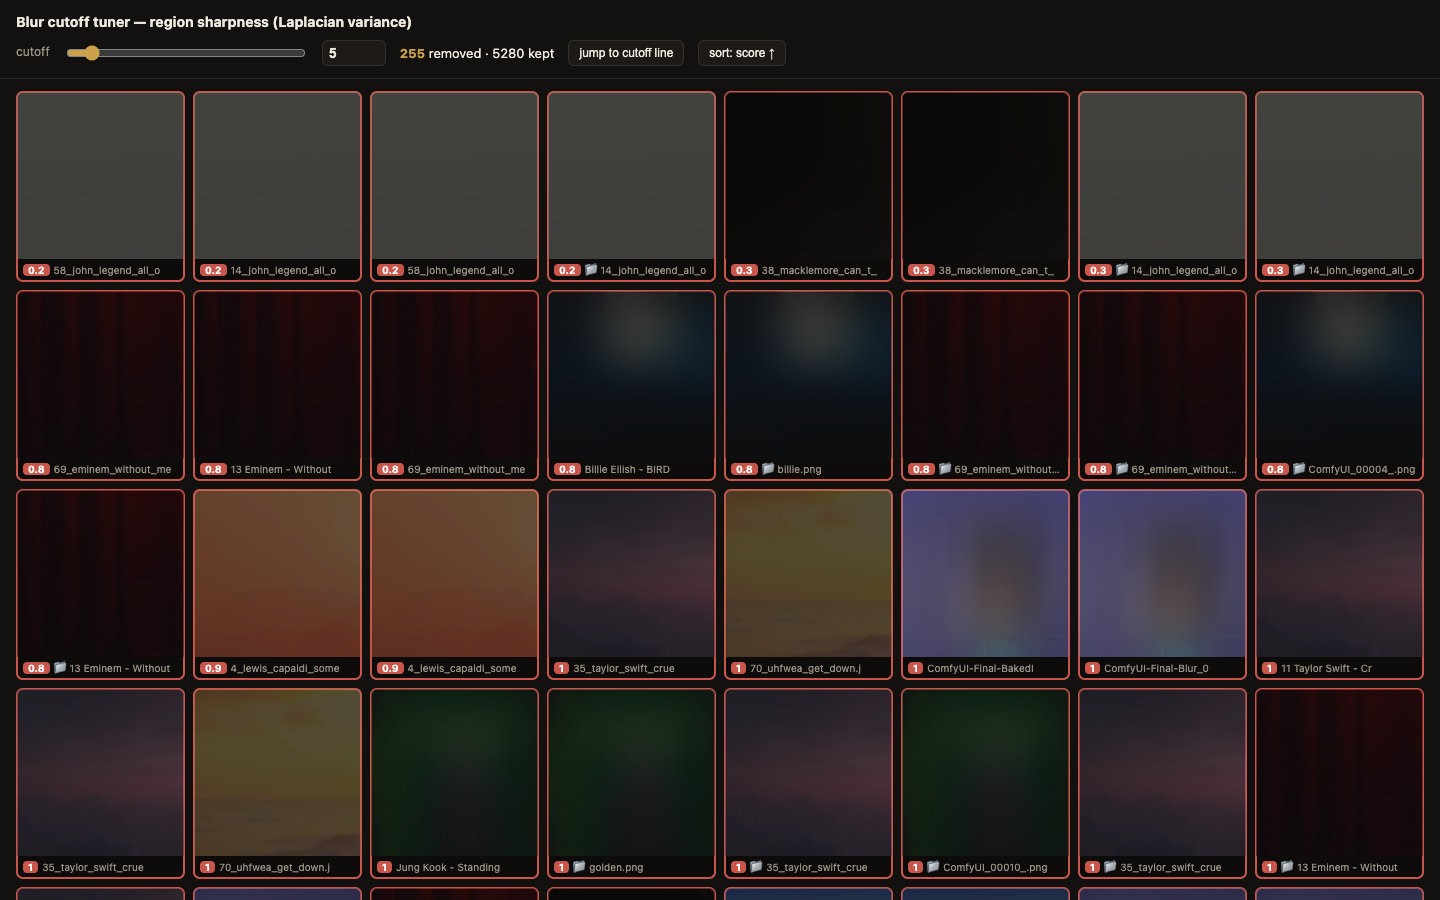
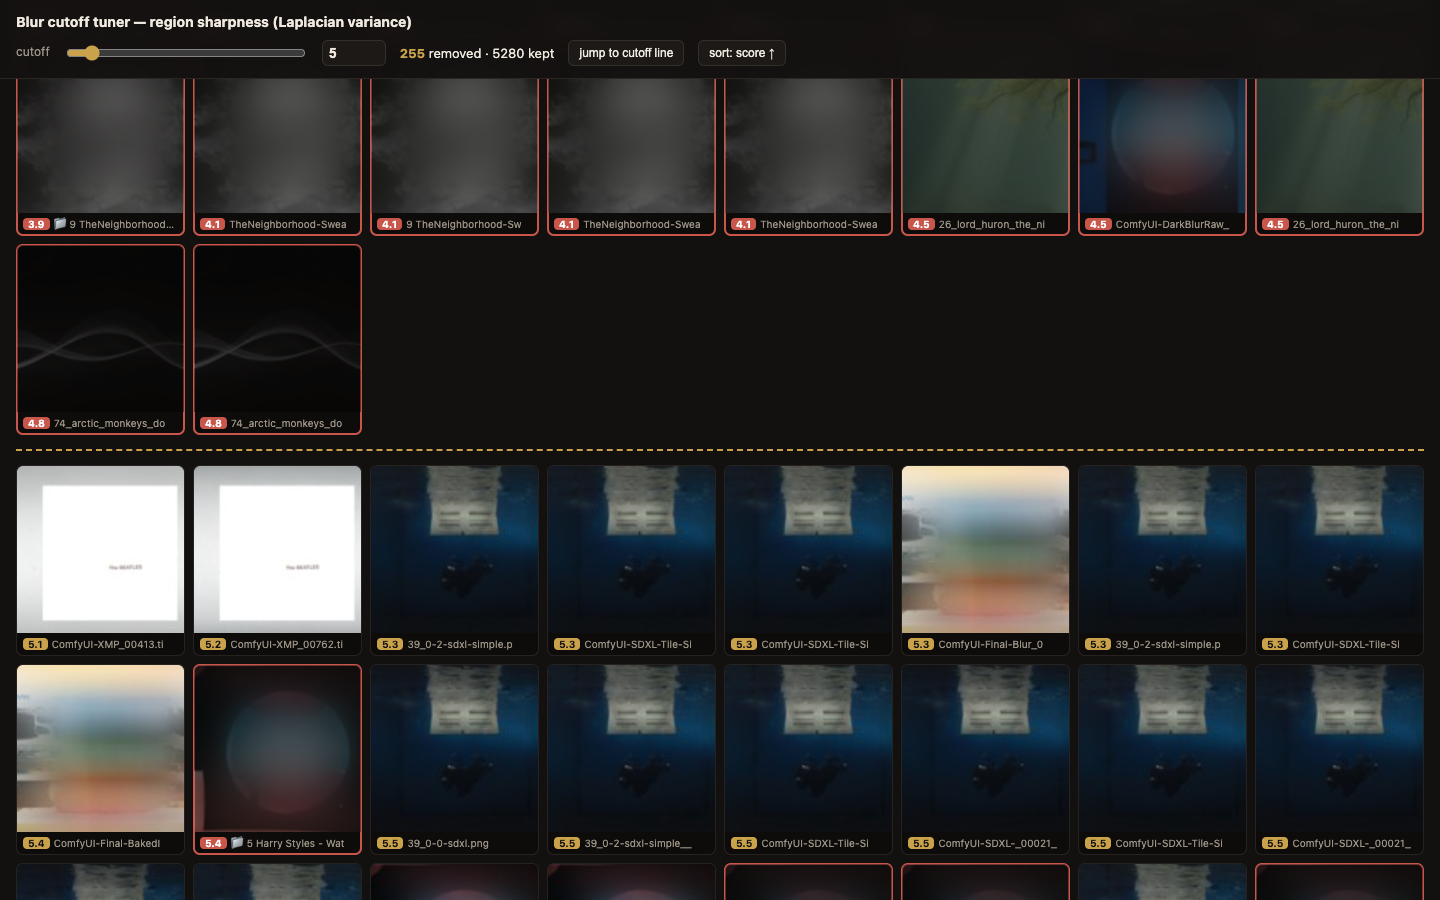
docs: capture the blur tuner at its threshold boundary (the defining visual), add caption
Entire-Checkpoint: 0487d50c33c9

diff --git a/docs/ephemeral-design-interfaces.md b/docs/ephemeral-design-interfaces.md
@@ -69,7 +69,12 @@ conflates *blurred* with *simple-but-sharp*, so no single computed value is righ
 have to see where the covers actually stop looking blurry. A static "remove vs keep"
 image freezes one cutoff and can't answer "is it right?". So instead:
 
-![blur cutoff tuner](ephemeral-design-interfaces/03-blur-tuner.png)
+![blur cutoff tuner at the keep/remove boundary](ephemeral-design-interfaces/03-blur-tuner.png)
+
+*Captured at the threshold line itself — the defining state of the interface: blurry
+covers removed (red, scores 3.9–4.8) above the dashed boundary, sharp covers kept
+(Beatles 5.1, framed panels 5.3–5.5) below it. You can read straight off the image that
+a cutoff of 5 lands in the right place.*
 
 - Every cover sorted worst-first, so the decision boundary is a place you scroll to.
 - Each tile is the **region crop the metric actually scores** — what you see is what it sees.
